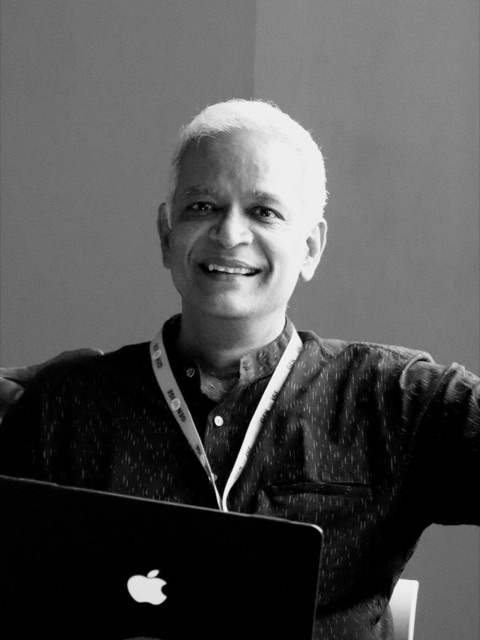
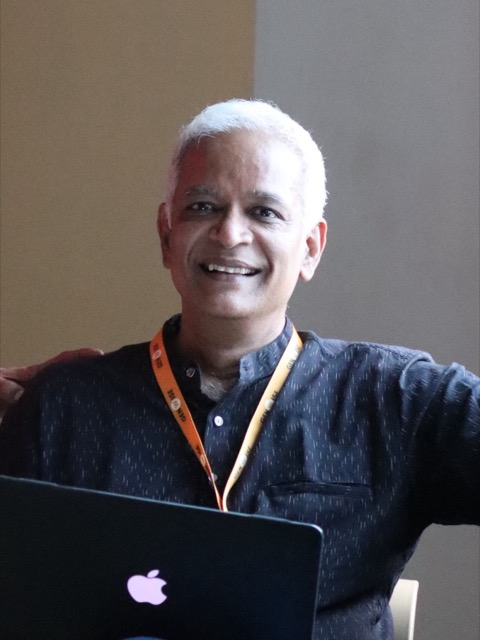
About: colour founder photos, Vishnu's new photo
Claude-Session: https://claude.ai/code/session_014BENYLp8zhMYqHL8HC4w11

diff --git a/about.html b/about.html
@@ -140,7 +140,7 @@
     </article>
 
     <article class="founder">
-      <img src="https://genwise.github.io/static-pages/images/founders/vishnu.jpg" width="416" height="554" alt="Vishnu Agnihotri" loading="lazy">
+      <img src="https://genwise.github.io/static-pages/images/founders/vishnu.jpg" width="480" height="640" alt="Vishnu Agnihotri" loading="lazy">
       <h2>Vishnu Agnihotri</h2>
       <p class="li"><a href="https://www.linkedin.com/in/vishnu-agnihotri-a651611/" target="_blank" rel="noopener">LinkedIn</a></p>
       <p>Vishnu leads GenWise's curriculum and teacher-development work. He built and runs GenWise's network of expert mentors, who work on improving the teacher-student interface across every GenWise programme: My Misconception Mentor, Godrej Tomorrow Makers, the GenWise Summer Programme and Gifted Lab.</p>
